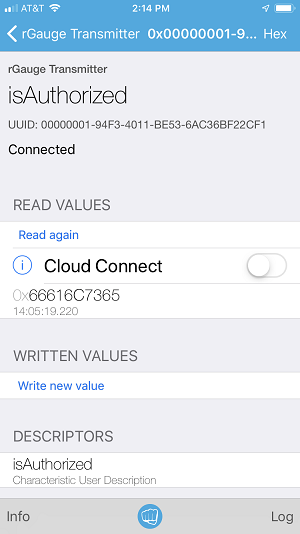
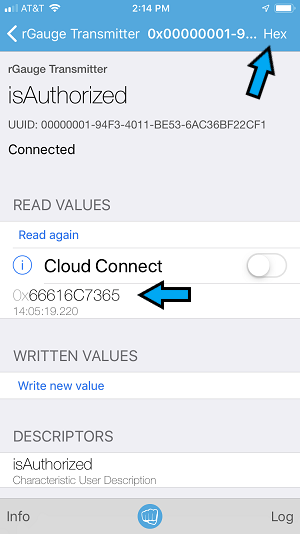
ed

Changed region(s): [[0.81, 0.0899, 0.93, 0.2097], [0.45, 0.5094, 0.66, 0.5993]]

diff --git a/README.md b/README.md
@@ -24,7 +24,9 @@ At this point you should have a Bluetooth LE (BLE) peripheral up and running on 
 # Test with iPhone
 * Install the [LightBlue Explorer]( https://itunes.apple.com/us/app/lightblue-explorer/id557428110?mt=8) app on your iPhone or iPad and open it.
 * The Peripherals Nearby list should have your device as you named it in the main.conf.  If you followed my [bluetooth 5.50 install steps](https://github.com/RuckerGauge/Raspberry-Pi-Zero-W-Bluez-5.50-upgrade-steps) the name will be **rGauge Transmitter**. Tap on that device to open and connect to the Raspberry Pi Zero W peripheral. You should see the following screens:
-{: style="text-align:center"}![pic1](./pics/mainLightBlue.PNG)  ![pic2](./pics/isAuthorized.PNG)
+
+![pic1](./pics/mainLightBlue.PNG) 
+![pic2](./pics/isAuthorized.PNG)
 * You will see five characteristics labeled isAuthorized, cmd, bigData, myIpAddress and iNetReachable.  The first two can be accessed without binding to the Raspberry Pi as they have normal Read and Write flags set.  However, the last three (bigData, myIpAddress, iNetReachable) require that you bind your iPhone before you read their data.  Their characteristics are flagged as encrypt-read and encrypt-write.  So for now do not tap on them we will stay focused on the first two.
 
 * Tap on the isAuthorized characteristic to open and read its value.  You will see a hex value that doesn’t make much sense.  It is hex encoded ASCII characters and to decode it you can tap on the word hex in upper right side of the screen.  Select the UTF-8 String from the list of options and you will see that the value is the word “false”.  This characteristic can be used to tell your IOS app if this device is bound or not with this peripheral.  It will change to “true” when we pair the iPhone to the device. 
